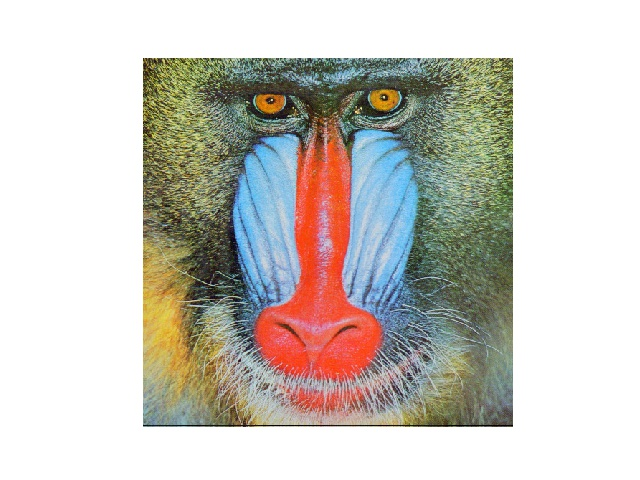
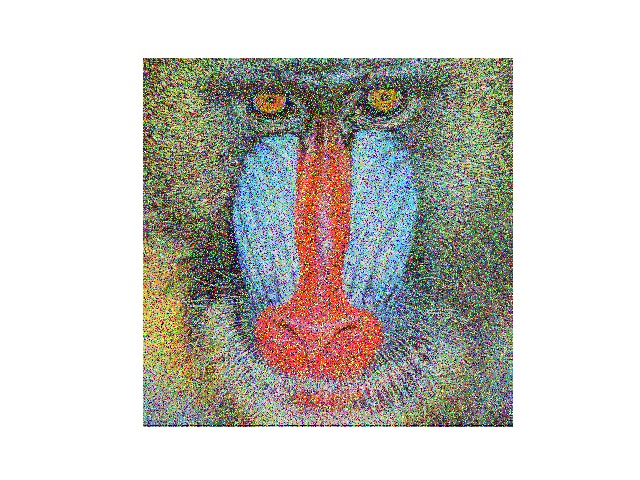
Finish 1-1-1

diff --git a/hw1/HW1_1.py b/hw1/HW1_1.py
@@ -39,8 +39,7 @@ def reflect_padding(input_image, size):
                     else:
                         output_image[y][x] = output_image[L[0,i//2+1]*2-y][L[1,j//2+1]*2-x]
                         
-#     assert((output_image == np.pad(input_image, pad_width=((size[0]//2,), (size[1]//2,), (0,)), mode='reflect')).all())
-    print(output_image.shape)
+    # assert((output_image == np.pad(input_image, pad_width=((size[0]//2,), (size[1]//2,), (0,)), mode='reflect')).all())
     return output_image
 
 def convolve(input_image, Kernel):
@@ -60,18 +59,18 @@ def convolve(input_image, Kernel):
     # shape of Kernel: (height, width)
     # Make sure that the same Kernel be applied to each of the channels of the input_image
     
+    image = reflect_padding(input_image, Kernel.shape)
     Kernel = np.fliplr(np.flipud(Kernel))
-    (height, width, channel) = input_image.shape
+    (height, width, channel) = image.shape
     output_image = np.zeros((height-Kernel.shape[0]+1, width-Kernel.shape[0]+1, channel))
     
     for c in range(channel):
         for h in range(height-Kernel.shape[0]+1):
             for w in range(width-Kernel.shape[1]+1):
-                 output_image[h][w][c] = (input_image[h:h+Kernel.shape[0],w:w+Kernel.shape[1],c]*Kernel).sum()
-                        
-    print(output_image.shape)
+                 output_image[h][w][c] = (image[h:h+Kernel.shape[0],w:w+Kernel.shape[1],c]*Kernel).sum()
+                    
+    assert(input_image.shape == output_image.shape)
     return output_image
-
 
 def median_filter(input_image, size):
     """
@@ -85,17 +84,17 @@ def median_filter(input_image, size):
         if s % 2 == 0:
             raise Exception("size must be odd for median filter")
 
-    (height, width, channel) = input_image.shape
+    image = reflect_padding(input_image, size)
+    (height, width, channel) = image.shape
     output_image = np.zeros((height-size[0]+1, width-size[0]+1, channel))
     
     for c in range(channel):
         for h in range(height-size[0]+1):
             for w in range(width-size[1]+1):
-                 output_image[h][w][c] = np.median(input_image[h:h+size[0],w:w+size[1],c])
+                 output_image[h][w][c] = np.median(image[h:h+size[0],w:w+size[1],c])
                     
-    print(output_image.shape)
+    assert(input_image.shape == output_image.shape)
     return output_image
-
 
 def gaussian_filter(input_image, size, sigmax, sigmay):
     """
@@ -108,13 +107,31 @@ def gaussian_filter(input_image, size, sigmax, sigmay):
         Gaussian filtered image (numpy array)
     """
     
-    return input_image
+    def GaussianKernel1D(size, sigma):
+        ax = np.linspace(-(size-1)/2., (size-1)/2., size)
+        kernel = np.exp(-0.5 * np.square(ax) / np.square(sigma))
+        return kernel / np.sum(kernel)
 
+    def GaussianKernel2D(size, sigma):
+        kernelx = GaussianKernel1D(size[0], sigma[0])
+        kernely = GaussianKernel1D(size[1], sigma[1])
+        kernel = np.outer(kernelx, kernely.transpose())
+        return kernel
+    
+    for s in size:
+        if s % 2 == 0:
+            raise Exception("size must be odd for gaussian filter")
+    
+    kernel = GaussianKernel2D(size, (sigmax, sigmay))
+    output_image = convolve(input_image, kernel)
+    
+    assert(input_image.shape == output_image.shape)
+    return output_image
 
 if __name__ == '__main__':
-    image = np.asarray(Image.open(os.path.join('images', 'baboon.jpeg')).convert('RGB'))
-    #image = np.asarray(Image.open(os.path.join('images', 'gaussian_noise.jpeg')).convert('RGB'))
-    #image = np.asarray(Image.open(os.path.join('images', 'salt_and_pepper_noise.jpeg')).convert('RGB'))
+#     image = np.asarray(Image.open(os.path.join('images', 'baboon.jpeg')).convert('RGB'))
+#     image = np.asarray(Image.open(os.path.join('images', 'gaussian_noise.jpeg')).convert('RGB'))
+    image = np.asarray(Image.open(os.path.join('images', 'salt_and_pepper_noise.jpeg')).convert('RGB'))
 
     logdir = os.path.join('results', 'HW1_1')
     if not os.path.exists(logdir):
@@ -122,6 +139,7 @@ if __name__ == '__main__':
 
     kernel_1 = np.ones((5,5)) / 25.
     sigmax, sigmay = 5, 5
+    
     ret = reflect_padding(image.copy(), kernel_1.shape)
     if ret is not None:
         plt.figure()
